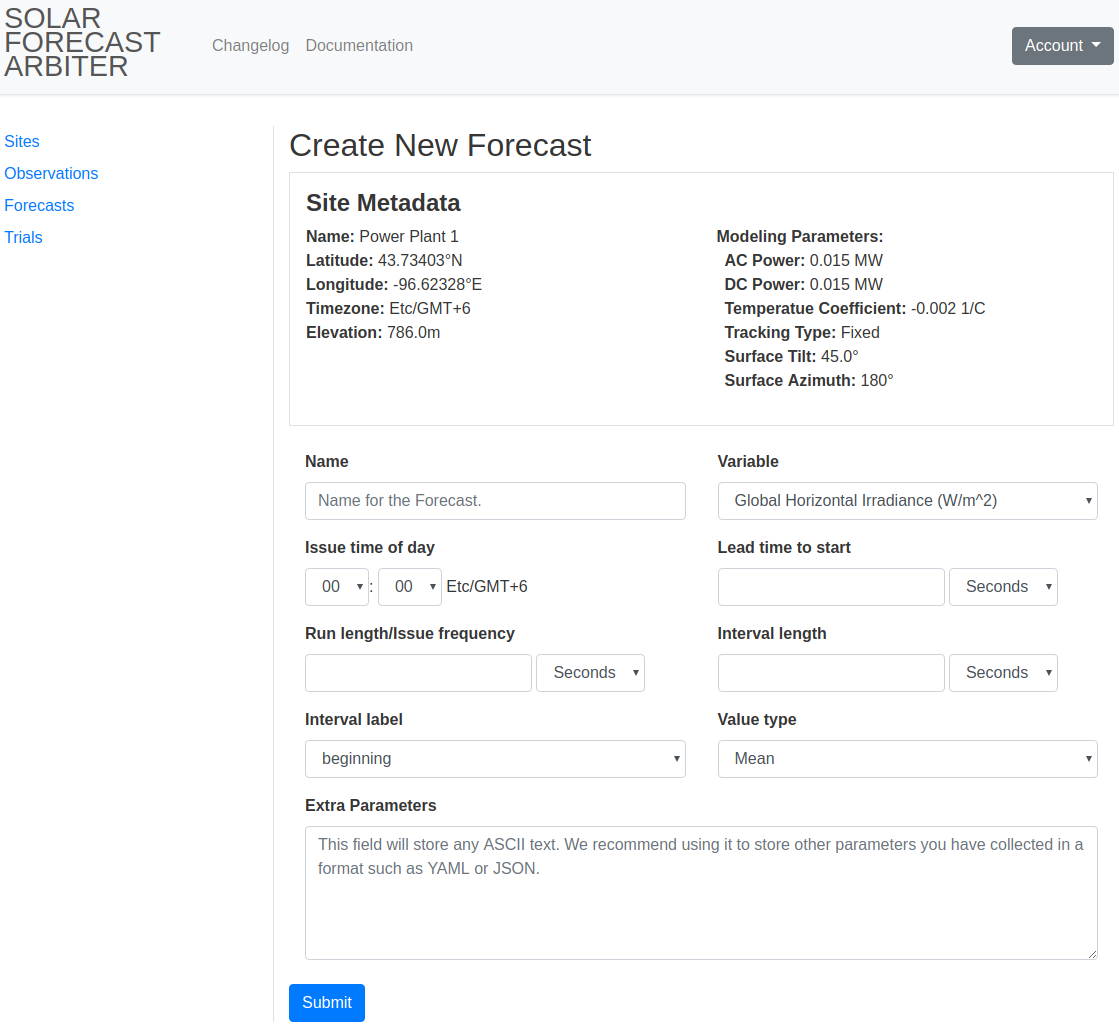
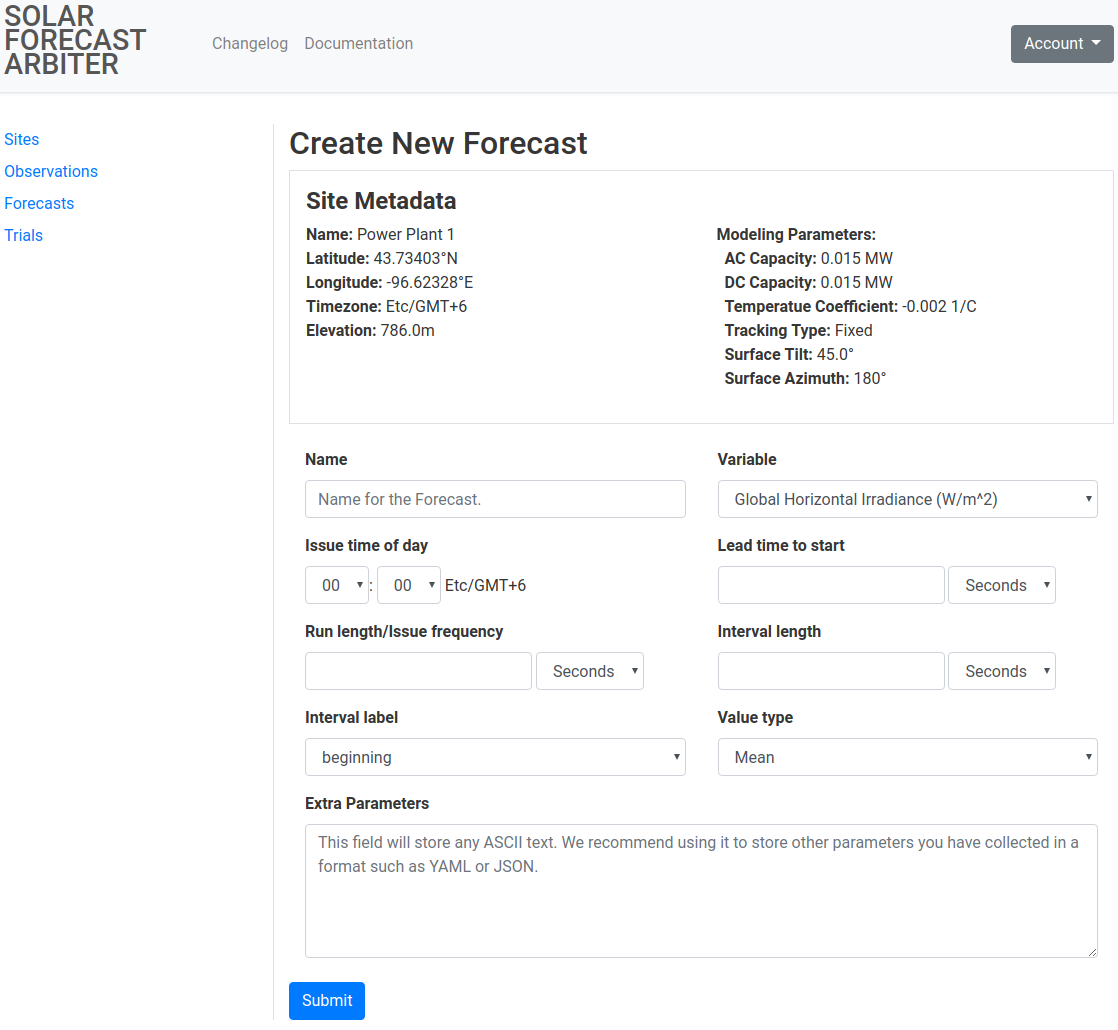
address dashboard documentation feedback (#55)
* address dashboard doc feedback

* update screenshots

* update note about errors

diff --git a/_includes/dashboard_sidebar.html b/_includes/dashboard_sidebar.html
@@ -2,11 +2,11 @@
 <h2>Contents</h2>
 <ul class="contents-list">
   <li><a href="#user-dashboard-interaction">Introduction</a></li>
-  <li><a href="#create-a-site">Create a Site</a></li>
-  <li><a href="#create-an-observation-or-forecast">Create Observations or Forecasts</a></li>
+  <li><a href="#create-new-site">Create New Site</a></li>
+  <li><a href="#create-new-observation-or-forecast">Create New Observations or Forecasts</a></li>
     <ul>
-	  <li><a href="#create-an-observation">Create an Observation</a></li>
-	  <li><a href="#create-a-forecast">Create a Forecast</a></li>
+	  <li><a href="#create-new-observation">Create New Observation</a></li>
+	  <li><a href="#create-new-forecast">Create New Forecast</a></li>
 	</ul>
   <li><a href="#upload-data">Upload Data</a>
     <ul>

diff --git a/dashboarddoc.md b/dashboarddoc.md
@@ -10,14 +10,44 @@ User Dashboard Interaction
 This document illustrates how a Solar Forecast Arbiter user may use the
 Dashboard to complete the following actions:
 
--   [Create a new Site](#create-a-site).
+-   [Create New Site](#create-new-site)
 
--   [Create a new Observation or Forecast](#create-an-observation-or-forecast).
+-   [Create New Observation or Forecast](#create-new-observation-or-forecast)
 
--   [Upload Data to an Observation or Forecast](#upload-data).
+-   [Upload Data to an Observation or Forecast](#upload-data)
 
+### User Guidance Considerations
+To assist in the user in providing the correct information and
+navigating the dashboard's interface, we've adopted the following
+features not otherwise illustrated in this guide.
 
-Create a Site
+-  To reduce clutter, the dashboard will utilize *progressive
+   disclosure* to hide unnecessary fields from view e.g. the
+   Site form will not display the *PV Modeling Paremeters* fields
+   unless a *Site Type* of *Power Plant* is selected.
+
+-  Descriptive tooltips will be displayed when a user selects a field.
+   <img class="my-3" src="/images/TooltipDetail.png" class="figure"/>
+   <figcaption class="figure pb-2">The latitude field is selected and displays
+   a tooltip describing the data a user should enter.</figcaption>
+
+-  Basic validation will be performed on the entered data to provide
+   immediate feedback to the user. There are two possible sources of
+   error in dashboard interaction:
+
+   1.  Invalid Input
+
+       For example, a user entering a non-numeric value into numeric
+       field. In this case, the user will be prompted with meaningful
+       error messages and required to correct their data before submission. 
+
+   2.  Insufficient Input
+
+	   All fields will be required unless otherwise indicated. Users will
+	   not be able to submit data until they have provided valid data
+	   for all required fields.
+
+Create New Site
 -------------
 {: .anchor}
 
@@ -28,11 +58,7 @@ Create a Site
 2. Enter the metadata for your Site. Selecting a site type of 
    'Power Plant' will prompt you for additional fields. 
 
-   <img class="my-3" src="/images/TooltipDetail.png" class="figure"/>
-   <div class="figure mb-3">
-   Descriptive tooltips are displayed when a user selects a field. 
-   </div>
-
+   
    - *Weather station site creation form*
    <img class="my-3" src="/images/SiteForm.png"/>
 
@@ -41,22 +67,20 @@ Create a Site
 
 3. After submission, you will be redirected to a Site
    page which displays the new Site’s metadata and allows you
-   to create associated Observations and Forecasts. See
-   [Create an Observation or Forecast](#create-an-observation-or-forecast).
+   to create associated Observations and Forecasts (see
+   [Create New Observation or Forecast](#create-new-observation-or-forecast)).
 
    *Power Plant Site Page*
    <img class="my-3" src="/images/plant_site.png"/>
 
 
-
-Create an Observation or Forecast
+Create New Observation or Forecast
 ---------------------------------
 {: .anchor}
 
-To create an Observation or Forecast, an associated site must already exist.
-See [Create a Site](#create-a-site) for instructions.
+To create an Observation or Forecast, an associated site must already exist (see [Create New Site](#create-new-site)).
 
-### Create an Observation
+### Create New Observation
 {: anchor} 
 
 1.  Navigate to the Site listing page using the ‘Sites’ link in the left
@@ -67,13 +91,13 @@ See [Create a Site](#create-a-site) for instructions.
 
 3.  Enter metadata for your Observation. On submission, you will be redirected
     to an Observation page which displays the new Observation metadata and a
-    link to add Observation data. See [Upload Data](#upload-observation-data).
+    link to add Observation data (see [Upload Data](#upload-observation-data)).
 - *Observation form*
 <img class="my-3" src="/images/weather_obs.png"/>
 - *Created Observation page*
 <img class="my-3" src="/images/observation.png"/>
 
-### Create a Forecast
+### Create New Forecast
 {: anchor}
 
 1.  Navigate to the Site listing page using the ‘Sites’ link in the left
@@ -82,9 +106,9 @@ See [Create a Site](#create-a-site) for instructions.
 2.   Click the “Create new Forecast” button on the Site page.
   <img class="my-3" src="/images/plant_site.png"/>
 
-3.  Enter metadata for your Observation. On submission, you will be redirected
-    to an Observation page which displays the new Forecast metadata and a
-    link to add Forecast data. See [Upload Data](#upload-forecast-data).
+3.  Enter metadata for your Forecast. On submission, you will be redirected
+    to a Forecast page which displays the new Forecast metadata and a
+    link to add Forecast data (see [Upload Data](#upload-forecast-data)).
 - *Forecast form*
 <img class="my-3" src="/images/forecast_form.png"/>
 - *Created Forecast page*
@@ -96,9 +120,9 @@ Upload data
 {: .anchor}
 
 To upload data, an associated Site and Observation or Forecast object
-must already exist. See [Create a Site](#create-a-site) or
-[Create an Observation or Forecast](#create-an-observation-or-forecast)
-for instructions. The instructions here will describe the process of
+must already exist (see [Create New Site](#create-New-site) or
+[Create New Observation or Forecast](#create-new-observation-or-forecast)).
+The instructions here will describe the process of
 uploading data using the dashboard.
 Uploading data may be automated using the API, see
 [https://dev-api.solarforecastarbiter.org/](https://dev-api.solarforecastarbiter.org/)
@@ -150,7 +174,7 @@ the downloaded data will be the same as for data uploads.
 
 Users may also utilize the API to download data. See the
 [API documentation](https://dev-api.solarforecastarbiter.org/)
-for details
+for details.
 
 
 <div class="my-3"></div>
